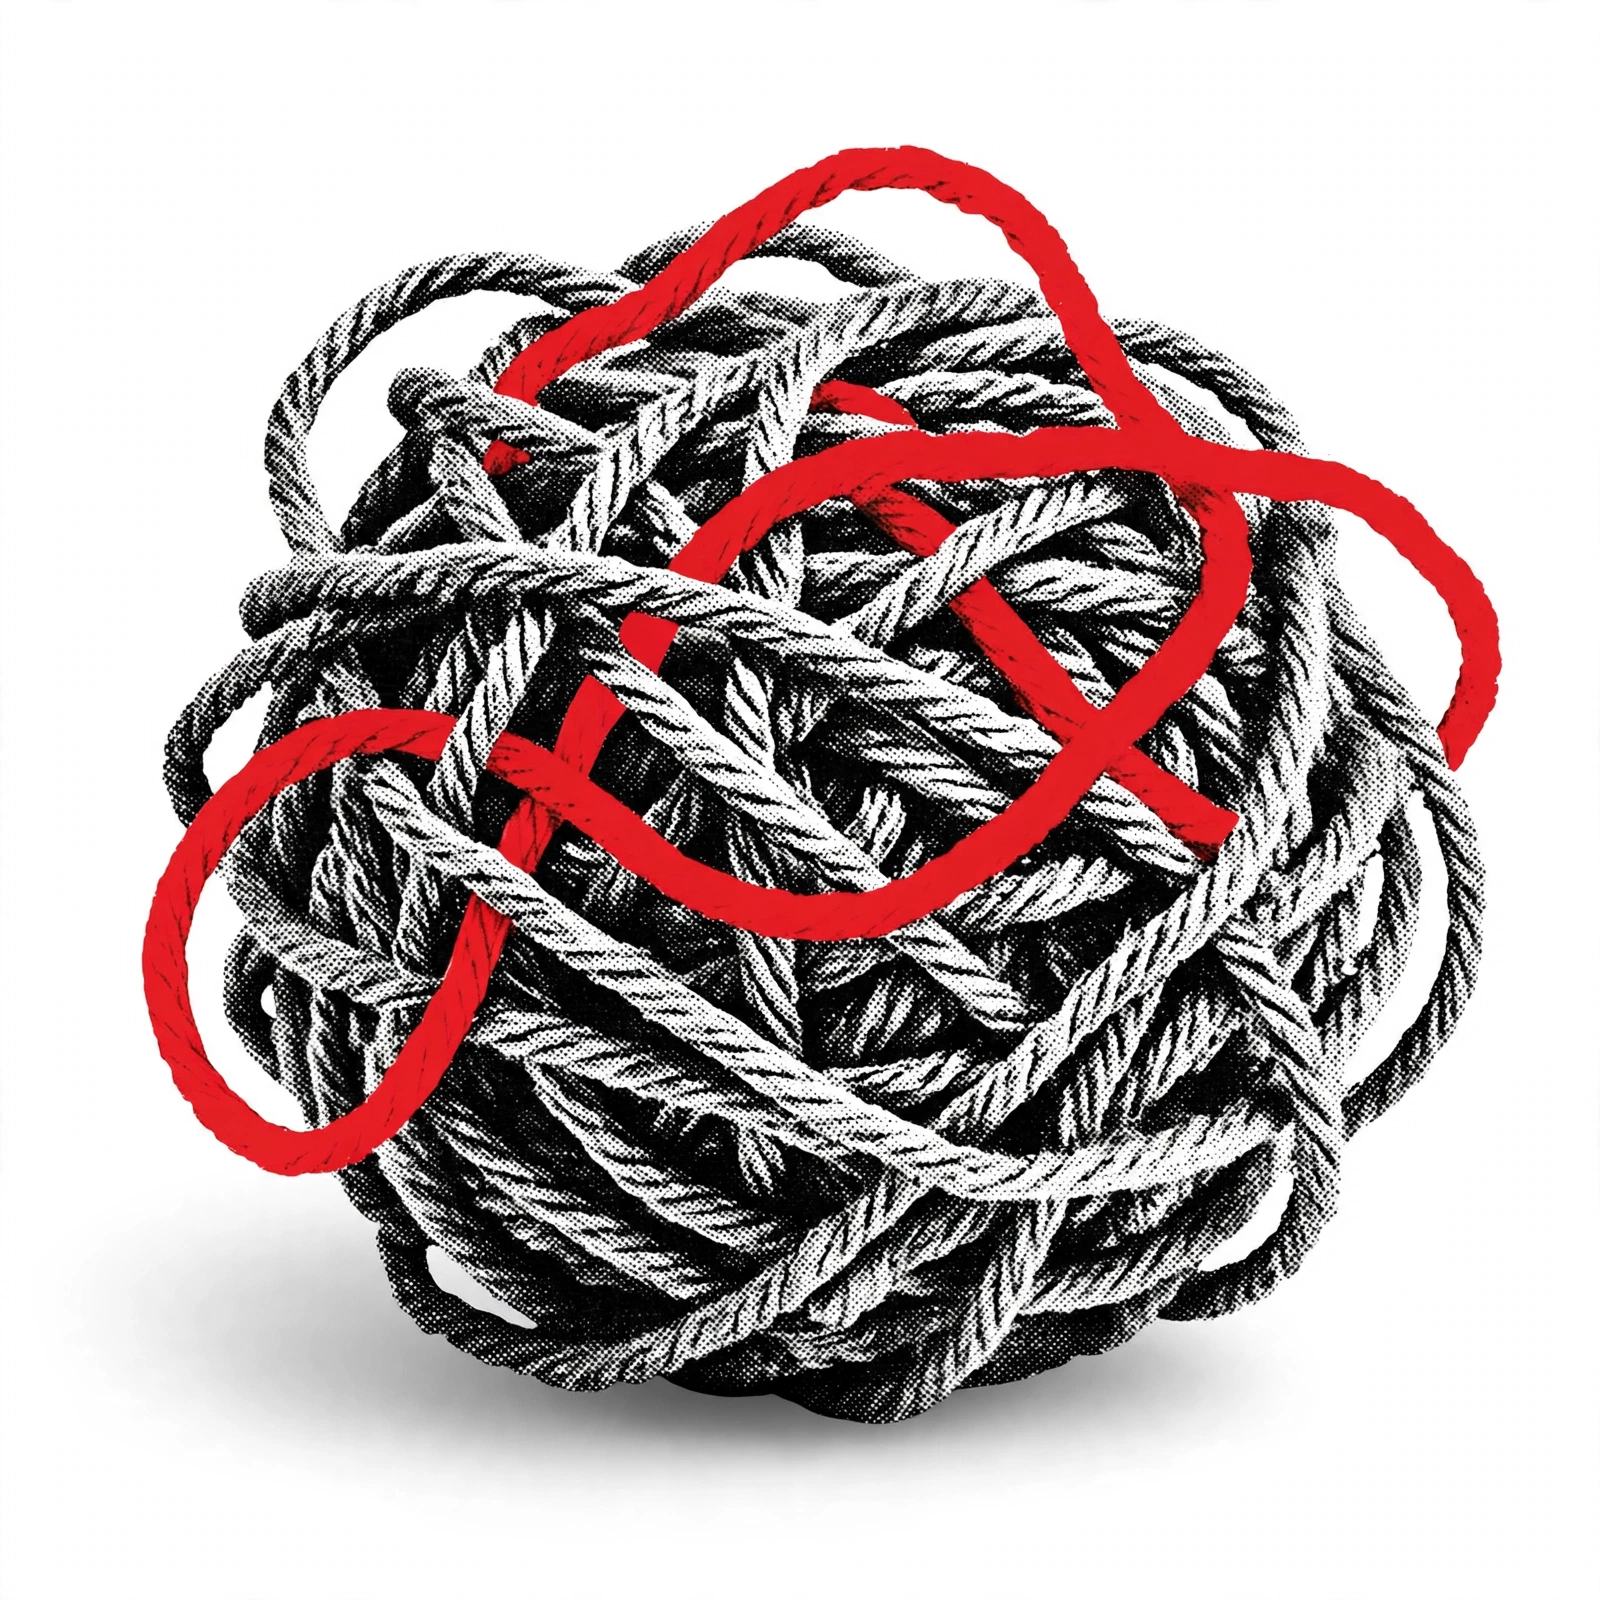
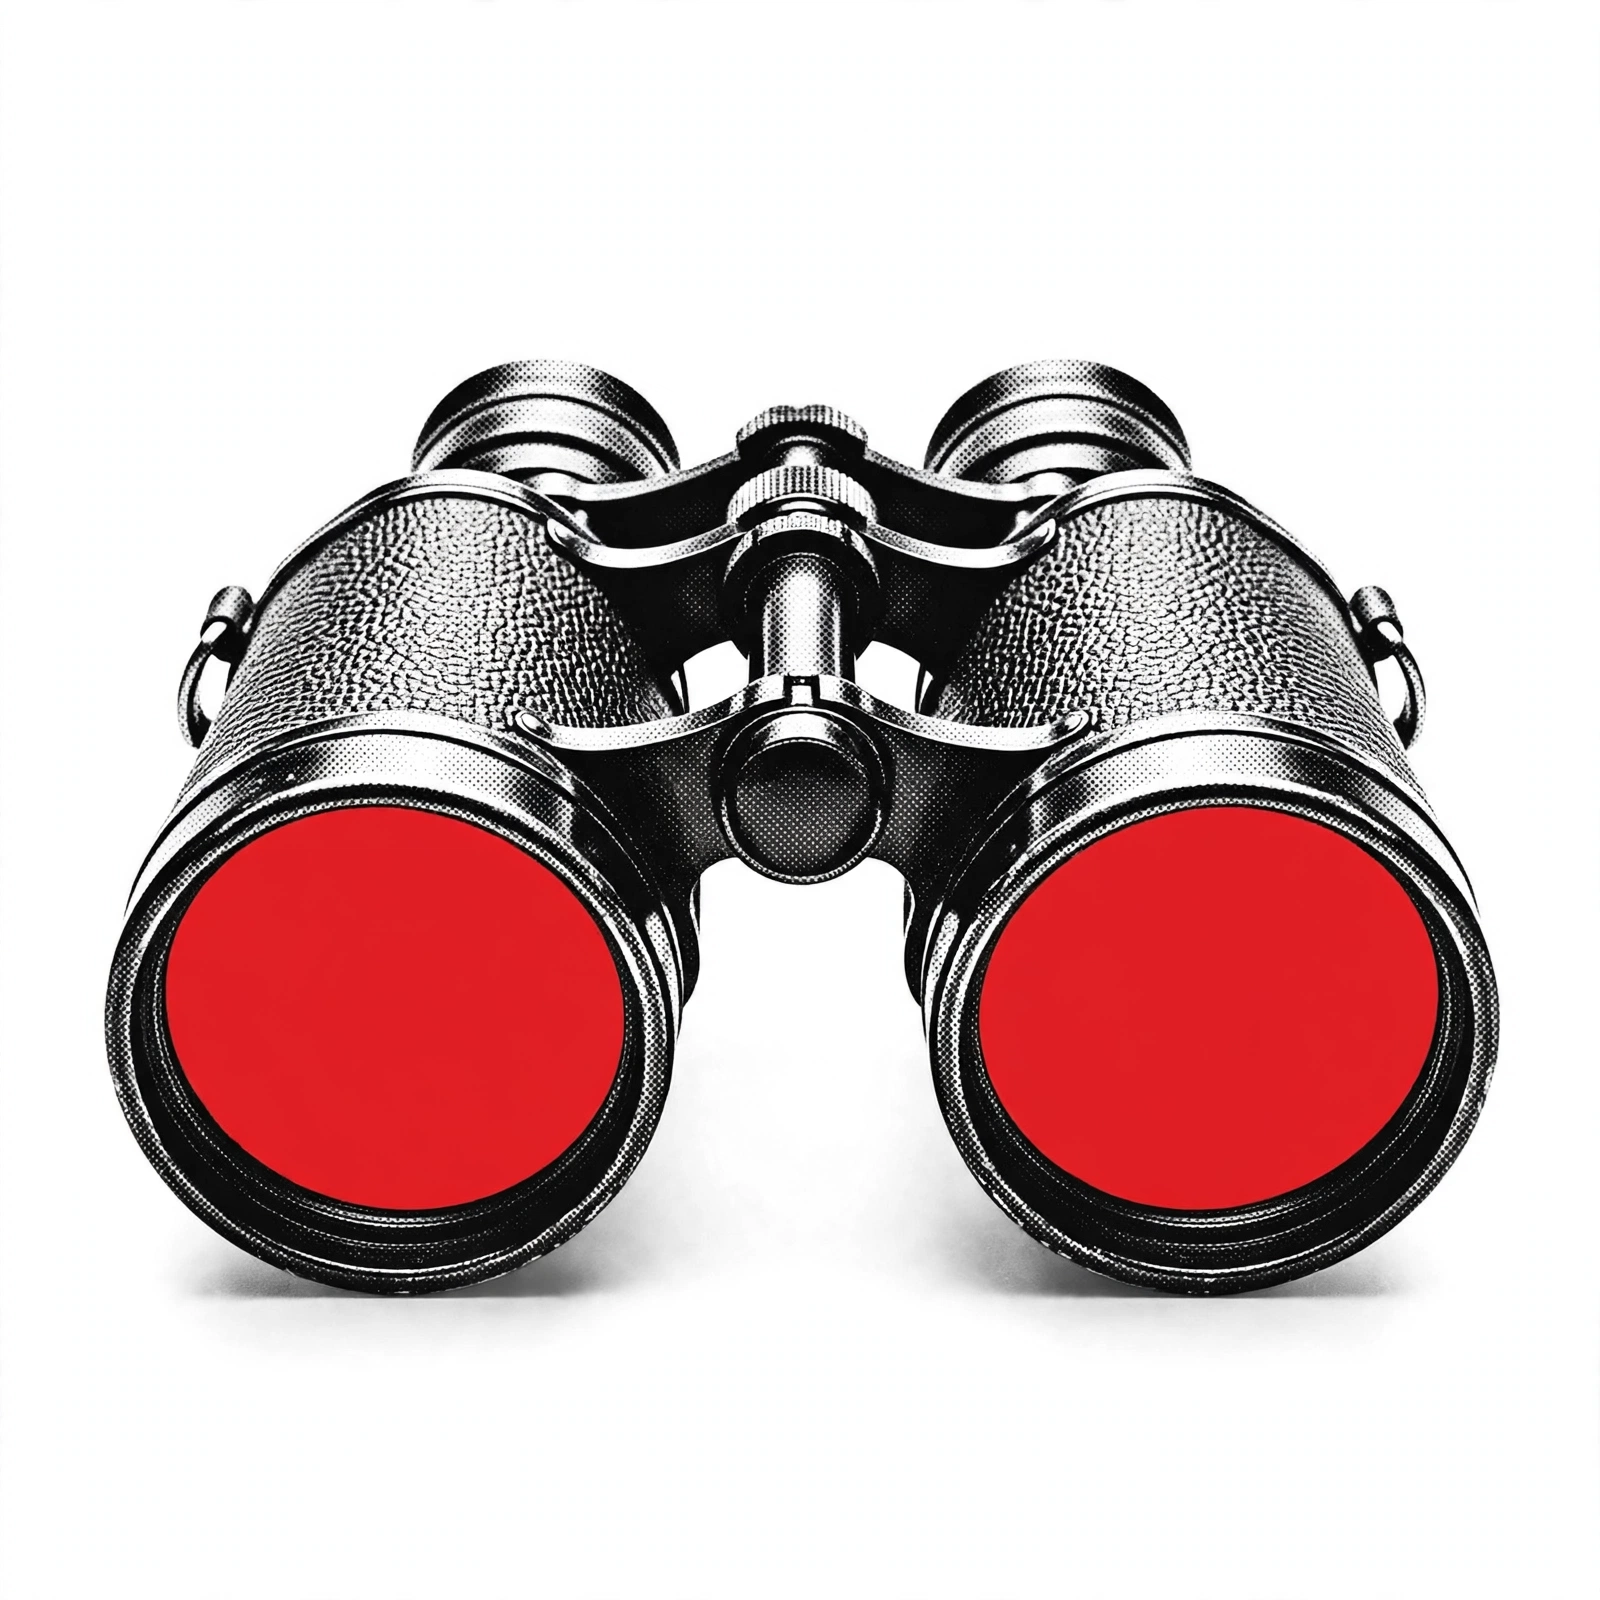
76 visuais únicos integrados (nomes verificados pelo conteúdo; 3 trocados), tags mais pequenas junto aos objetos
Claude-Session: https://claude.ai/code/session_01Kfc4CMismtNmc6gaq2Y3sW

diff --git a/src/feudal/Scenes.tsx b/src/feudal/Scenes.tsx
@@ -193,7 +193,7 @@ export const SceneView: React.FC<{sc: Sc; start: number; figNo?: number}> = ({sc
         )}
         {lines.length > 0 && kind !== 'end' && (cardKind && hasBeats ? <Until end={holdEnd}><Lines lines={lines.map((l) => l.t)} times={times} x={110} y={lineY} size={size} theme={theme} hot={hot} width={1700} /></Until> : <Lines lines={lines.map((l) => l.t)} times={times} x={110} y={lineY} size={size} theme={theme} hot={hot} width={hasArt || beatsRight || kind === 'tos' || (isText && !!OBJ_MAP[sc.p]) ? 900 : 1700} />)}
         {tags.map((g, i) => (
-          <Tag key={i} text={g.t} at={at(g.p, g.o ?? 1)} x={tagX} y={tagY0 + i * 104} fill={g.fill} size={hasArt ? 44 : 56} theme={theme} />
+          <Tag key={i} text={g.t} at={at(g.p, g.o ?? 1)} x={tagX} y={tagY0 + i * 104} fill={g.fill} size={hasArt ? 44 : beatsRight ? 38 : 56} theme={theme} />
         ))}
         {cardKind && hasBeats ? (
           <>

diff --git a/tools/feudal_beats_apply.py b/tools/feudal_beats_apply.py
@@ -40,6 +40,17 @@ for line in open(os.path.join(R, 'tools/feudal_beats_curated.txt'), encoding='ut
             new.append({'t0': round(starts[i], 3), 't1': round(en, 3), 'text': bt['text'], 'cap': cap, 'view': {'name': name, 'variant': var}})
         beats[s - 1][b - 1] = new  # lista aninhada, achatada abaixo
     n += 1
+# visuais únicos (docs/shotlist_map.json: chave = beat já achatado) — só os que já têm ficheiro em public/feudal/obj
+have = {os.path.splitext(f)[0] for f in os.listdir(os.path.join(R, 'public/feudal/obj'))}
+mp = json.load(open(os.path.join(R, 'docs/shotlist_map.json')))
+flat0 = [[x for item in sc for x in (item if isinstance(item, list) else [item])] for sc in beats]
+sw = 0
+for k, name in mp.items():
+    si, bi = [int(x) for x in k.split('.')]
+    if name in have and si - 1 < len(flat0) and bi - 1 < len(flat0[si - 1]):
+        flat0[si - 1][bi - 1]['view'] = {'name': 'obj:' + name, 'variant': 0}; sw += 1
+print(sw, 'visuais únicos aplicados')
+beats = flat0
 flat = [[x for item in sc for x in (item if isinstance(item, list) else [item])] for sc in beats]
 json.dump(flat, open(os.path.join(R, 'src/feudal/beats.json'), 'w'), ensure_ascii=False)
 print(f'{n} beats curados; total {sum(len(s) for s in flat)}')

diff --git a/docs/SHOTLIST_EM_FALTA.md b/docs/SHOTLIST_EM_FALTA.md
@@ -1,0 +1,84 @@
+# Ainda em falta (visuais únicos)
+
+Faltam **78** de 154. Ordenados por duração do beat (os mais longos primeiro).
+
+| # | Beat | Ficheiro | Duração | Prompt |
+|---|---|---|---|---|
+| 1 | 52.4 | `domino-push` | 5.9s | A hand pushing the first of a row of dominoes |
+| 2 | 43.2 | `two-chess-kings` | 5.7s | Two large chess kings facing each other |
+| 3 | 55.5 | `lease-keys` | 5.3s | Two keys on a paper lease document |
+| 4 | 47.3 | `bridge-toll-gate` | 5.0s | A wooden toll gate on a stone bridge |
+| 5 | 65.5 | `sun-moon-pair` | 5.0s | A sun and a moon cycle with a small gate |
+| 6 | 46.1 | `parcel-conveyor` | 5.0s | A box moving along a roller conveyor |
+| 7 | 50.3 | `utility-meter` | 4.9s | An old utility electricity meter |
+| 8 | 68.1 | `phone-hammer` | 4.9s | A cracked phone next to a hammer |
+| 9 | 39.2 | `house-keys-tag` | 4.9s | A ring of old house keys with a tag |
+| 10 | 55.1 | `steam-engine` | 4.8s | A small steam engine, side view |
+| 11 | 52.2 | `moonlit-window` | 4.8s | A window at night with a crescent moon |
+| 12 | 65.3 | `free-bird` | 4.8s | A bird flying out of an open cage |
+| 13 | 46.2 | `law-book` | 4.7s | A thick law book closed with ribbon |
+| 14 | 67.5 | `pencil-eraser` | 4.7s | A pencil with an eraser rubbing a line |
+| 15 | 52.3 | `ballot-box` | 4.6s | A wooden ballot box with a slot |
+| 16 | 40.6 | `pie-slice` | 4.6s | A pie with one slice removed |
+| 17 | 46.3 | `giant-hand-press` | 4.6s | A giant hand pressing down on tiny boxes |
+| 18 | 67.1 | `prison-tower` | 4.5s | A tall prison tower with one small window |
+| 19 | 42.3 | `toll-rope` | 4.5s | A bar across a road with a bell hanging |
+| 20 | 45.1 | `game-controller` | 4.5s | A vintage game controller |
+| 21 | 51.4 | `fingerprint-trail` | 4.5s | A trail of fingerprints across a page |
+| 22 | 55.4 | `farmer-with-phone` | 4.5s | A farmer in a hat looking at a phone in his hand |
+| 23 | 45.5 | `open-chain-link` | 4.5s | A chain with one link open |
+| 24 | 45.2 | `top-hat-cane` | 4.5s | A top hat and a cane |
+| 25 | 54.2 | `padlock-circuit` | 4.5s | A padlock lying on a circuit board |
+| 26 | 68.2 | `telescope` | 4.5s | A brass telescope on a tripod |
+| 27 | 43.1 | `puzzle-pieces` | 4.5s | Two jigsaw pieces that almost fit |
+| 28 | 54.4 | `greek-column` | 4.5s | A broken ancient Greek column |
+| 29 | 46.5 | `inflating-balloon` | 4.5s | A balloon being inflated by a pump |
+| 30 | 45.6 | `desk-calculator` | 4.4s | An old desk calculator with a paper roll |
+| 31 | 67.2 | `wall-no-door` | 4.4s | A tall brick wall with no door |
+| 32 | 50.5 | `forest-edge` | 4.4s | A dark forest edge with a single path |
+| 33 | 51.1 | `wheat-ear-closeup` | 4.3s | A single wheat ear in extreme close-up |
+| 34 | 41.1 | `market-stall` | 4.2s | A small wooden market stall with striped awning and crates |
+| 35 | 38.1 | `big-question-mark` | 4.2s | A large 3D question mark standing on a base |
+| 36 | 67.6 | `apple-on-ground` | 4.1s | An apple on the ground with a falling leaf |
+| 37 | 53.1 | `cable-tangle` | 4.0s | A tangle of network cables |
+| 38 | 41.4 | `abacus` | 4.0s | A wooden abacus |
+| 39 | 46.4 | `price-signs` | 3.9s | Two price signs side by side, one lower, no numbers |
+| 40 | 41.5 | `split-coin` | 3.9s | A coin cut neatly in half, two halves |
+| 41 | 68.5 | `price-chain` | 3.9s | A chain with a price tag on it |
+| 42 | 54.1 | `cafe-table-book` | 3.8s | A small café table with an open book and a cup |
+| 43 | 40.5 | `percent-sign` | 3.8s | A large brass percent sign standing |
+| 44 | 48.2 | `iceberg` | 3.7s | An iceberg with a large hidden base underwater, engraving |
+| 45 | 65.2 | `city-wall-gate` | 3.7s | A city wall gate with open doors |
+| 46 | 67.4 | `seedling` | 3.6s | A small seedling growing through cracked ground |
+| 47 | 56.2 | `cracked-mirror` | 3.5s | A cracked hand mirror |
+| 48 | 66.1 | `open-wallet` | 3.5s | An open wallet with a hand giving a coin |
+| 49 | 37.3 | `beehive` | 3.5s | A straw beehive with bees |
+| 50 | 42.1 | `windmill-night` | 3.3s | A windmill silhouette at dusk with a big moon |
+| 51 | 45.3 | `verdict-scroll` | 3.3s | A verdict scroll with ribbon, blank |
+| 52 | 55.3 | `floating-island` | 3.3s | A floating island with a tiny fort |
+| 53 | 40.2 | `laptop-open` | 3.2s | An open laptop seen from the back, no logos |
+| 54 | 52.1 | `old-barn` | 3.2s | A wooden barn full of hay, front view |
+| 55 | 42.4 | `grindstone` | 3.1s | A grindstone wheel with a crank and sparks |
+| 56 | 57.1 | `feather-scale` | 3.1s | A feather on one pan of a small scale |
+| 57 | 36.6 | `stopwatch` | 3.1s | A vintage stopwatch |
+| 58 | 37.1 | `pebble-ripples` | 3.0s | A small pebble dropping into water with ripples |
+| 59 | 55.2 | `rain-cloud-coins` | 3.0s | A rain cloud dropping coins |
+| 60 | 44.1 | `courtroom-bench` | 3.0s | A judge’s bench seen from the front |
+| 61 | 40.4 | `velvet-rope` | 2.9s | Two stanchions with a velvet rope |
+| 62 | 54.6 | `toppled-crown` | 2.8s | A crown tipped over on its side |
+| 63 | 65.4 | `law-tablet` | 2.8s | A stone law tablet with lines |
+| 64 | 56.1 | `crossed-fingers` | 2.7s | A hand with crossed fingers |
+| 65 | 42.2 | `garden-wall` | 2.7s | A low stone wall enclosing a single tree |
+| 66 | 68.3 | `passing-parcel` | 2.7s | Two hands passing a parcel |
+| 67 | 48.1 | `witness-stand` | 2.7s | A courtroom witness stand |
+| 68 | 46.6 | `forklift-pallet` | 2.7s | A forklift carrying a pallet of boxes |
+| 69 | 54.5 | `castle-on-cloud` | 2.6s | A small castle standing on a cloud |
+| 70 | 67.3 | `compass-rose` | 2.5s | A compass rose on old map |
+| 71 | 40.3 | `locked-package` | 2.5s | A wrapped package with a padlock on the string |
+| 72 | 54.3 | `race-flag` | 2.3s | A checkered race flag on a pole |
+| 73 | 65.6 | `broken-shackle` | 2.3s | A broken iron shackle |
+| 74 | 38.2 | `coin-trail` | 2.0s | A trail of coins leading away in a line |
+| 75 | 45.7 | `court-clock` | 1.8s | A wall clock above a courtroom door |
+| 76 | 44.3 | `torn-calendar-page` | 1.2s | A torn-off calendar page, blank |
+| 77 | 68.4 | `ledger-tab` | 1.0s | A ledger with a protruding tab |
+| 78 | 68.6 | `path-lantern` | 0.5s | A lantern on a dark path |
